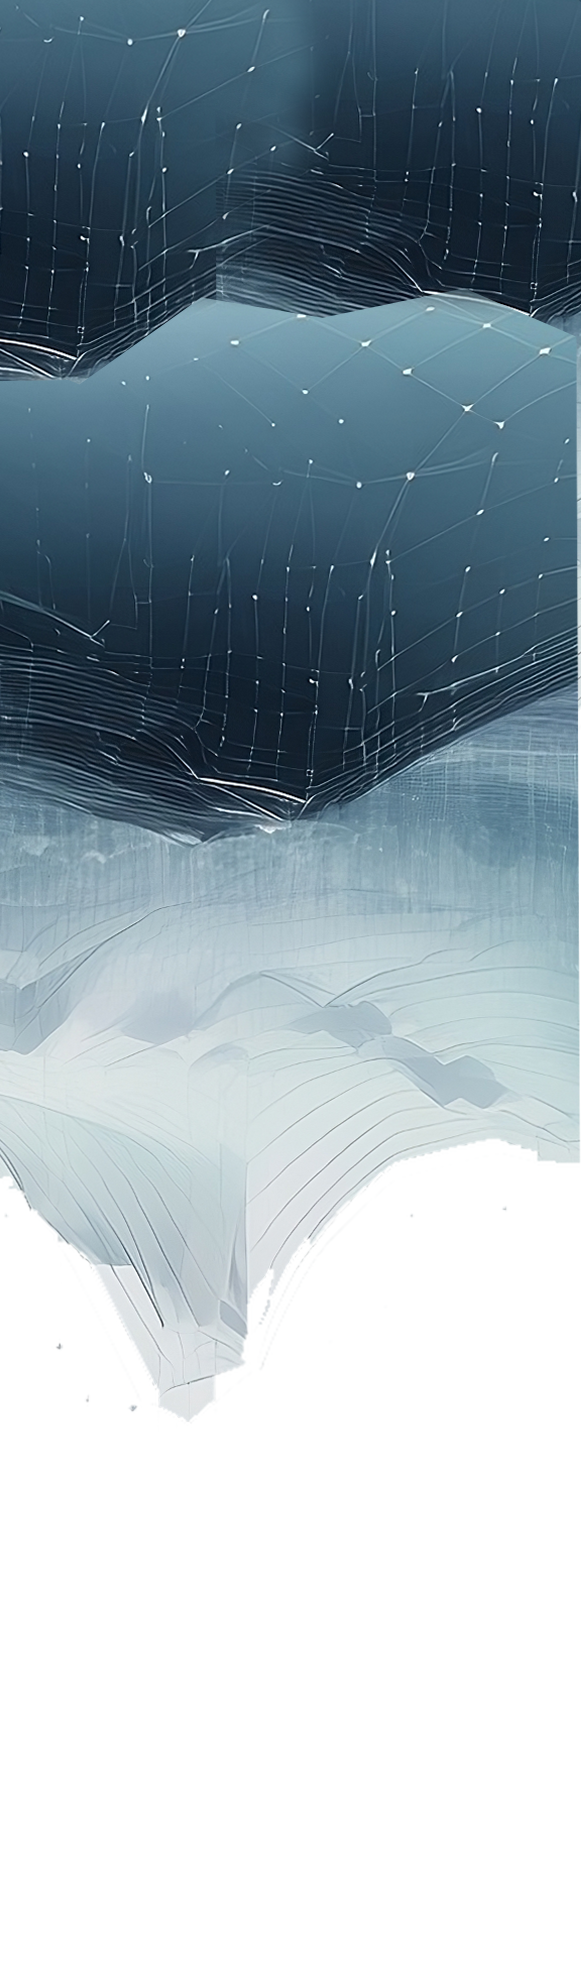
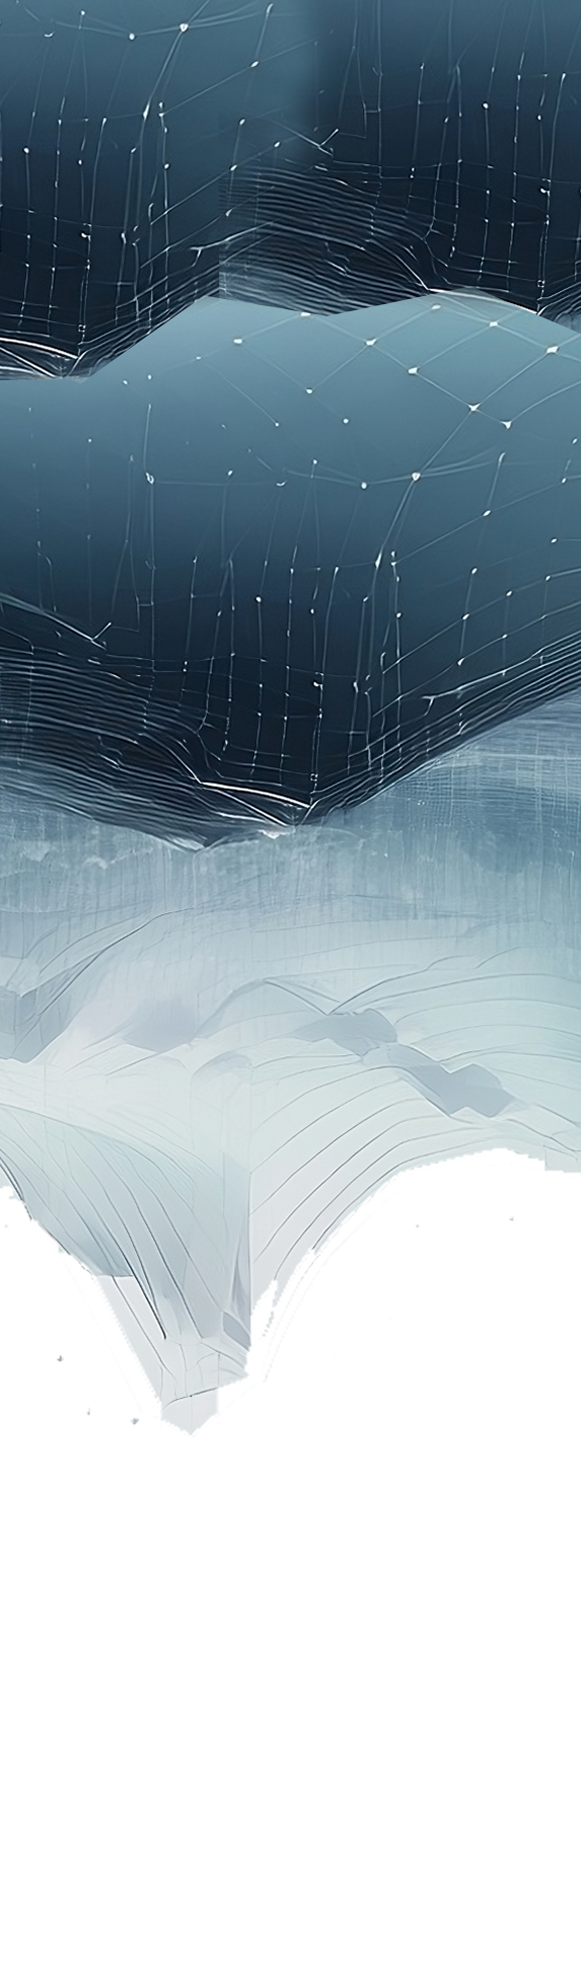
Update

diff --git a/src/components/layout/Parallax.js b/src/components/layout/Parallax.js
@@ -5,7 +5,7 @@ import { Parallax } from "react-parallax";
 import image1 from "../assets/parallax/fotoParallax01.png";
 import image2 from "../assets/parallax/fotoParallax02.png";
 import image3 from "../assets/parallax/fotoParallax03.png";
-import image4 from "../assets/parallax/fotoParallax06.png";
+import image4 from "../assets/parallax/fotoParallax04.png";
 import image5 from "../assets/parallax/fotoParallax05.png";
 
 
@@ -14,17 +14,17 @@ return (
 <div className="parallax">
   
 <Parallax bgImage={image5} strength={200}>
-<div style={{ height: "200px" }}>
+<div style={{ height: "35vh" }}>
 </div>
 </Parallax>
 
 <Parallax bgImage={image1} strength={100}>
-<div style={{ height: "55vh" }}>
+<div style={{ height: "65vh" }}>
 </div>
 </Parallax>
 
 <Parallax bgImage={image2} strength={200}>
-<div style={{ height: "65vh" }}>
+<div style={{ height: "100vh" }}>
 {/*<div style={insideStyles}> CV</div>*/}
 </div>
 </Parallax>
@@ -35,14 +35,11 @@ return (
 </Parallax>
 
 <Parallax bgImage={image4} strength={200}>
-<div style={{ height: "55vh" }}>
+<div style={{ height: "100vh" }}>
 </div>
 </Parallax>
 
-<Parallax bgImage={image1} strength={200}>
-<div style={{ height: "37vh" }}>
-</div>
-</Parallax>
+
 
 </div>
 

diff --git a/src/components/layout/HeaderNav.js b/src/components/layout/HeaderNav.js
@@ -47,8 +47,8 @@ export const HeaderNav = () => {
     const handleScroll = () => {
       const inicioOffset = elmntInicio.current?.offsetTop || 0;
       const trabajosOffset = elmntTrabajos.current?.offsetTop + -150 || 0;
-      const serviciosOffset = elmntServicios.current?.offsetTop + -200 || 0;
-      const contactoOffset = elmntContacto.current.offsetTop + -450||0;
+      const serviciosOffset = elmntServicios.current?.offsetTop + -250 || 0;
+      const contactoOffset = elmntContacto.current.offsetTop + -505||0;
     
 
       const scrollPosition = window.scrollY;

diff --git a/src/components/css/Galeria.css b/src/components/css/Galeria.css
@@ -91,6 +91,8 @@ button:disabled {
 }
 
 #trabajos {
+  padding: 0px 20px 0px 20px;
+
   display: flex;
   flex-direction: column;
   align-items: center;
@@ -102,6 +104,7 @@ button:disabled {
 
 #nav-galeria {
   margin-top: 9px;
+  margin-bottom: -15px;
 }
 
 

diff --git a/src/App.css b/src/App.css
@@ -10,10 +10,7 @@ code {
 	font-family: source-code-pro, Menlo, Monaco, Consolas, 'Courier New', monospace
 }
 
-#root {
-	height: 3324px;
-	background-color: red;
-}
+
 
 .general {
 	display: flex;

diff --git a/src/components/layout/Footer.js b/src/components/layout/Footer.js
@@ -1,6 +1,6 @@
 import React from 'react';
 import "../css/Footer.css";
-import image from '../assets/parallax/fotoParallax01.png';
+
 
 export const Footer = () => {
   

diff --git a/src/components/css/Parallax.css b/src/components/css/Parallax.css
@@ -7,6 +7,6 @@ html {
   /* margin-left: 278px;*/
   /*background-color: rgba(0, 255, 221, 0.238);*/
   width: 400px;
-
+  height: 100px;
 
 }
